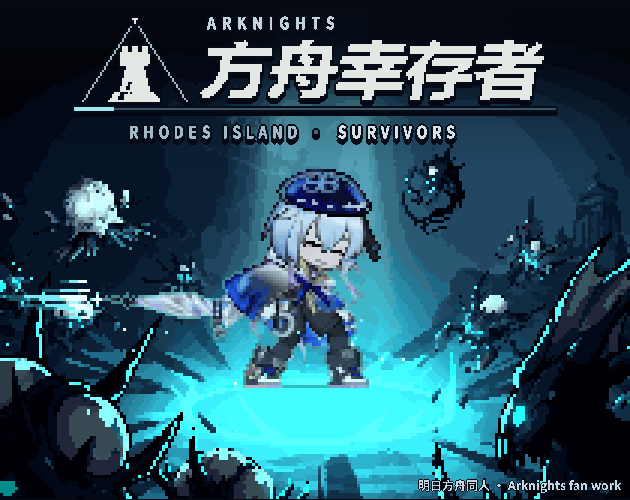
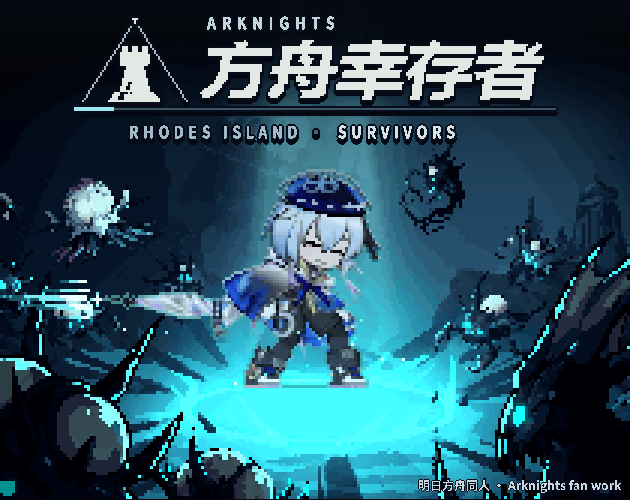
封面 H_t1_relit0：光柱不再割裂（背景收 112 色、顶部压暗拉长）；头部去贴图感（选择性描边、顶光、光包边）；加 itch 横幅 960×400（relit0 外扩 21:9，标题左、水月右）

diff --git a/art/promo/itch/cover_g/build_cover_h.py b/art/promo/itch/cover_g/build_cover_h.py
@@ -24,7 +24,10 @@ FRAMES = {"a": "mizuki_runtime_attack@2x.png", "s": "mizuki_runtime_skill_attack
           "n": "op_mizuki_entry@2x.png"}
 # 名字：(成品尺寸, 像素格, logo/标注倍数, logo 顶边)
 SIZES = {"itch_cover": ((630, 500), 3, 1, 16), "toy_poster": ((1200, 900), 5, 2, 14)}
-SHIFT = {"itch_cover": 12, "toy_poster": 10}   # 整个画面下移的格数（给标题让位，水月头顶不碰副行）
+SHIFT = {"itch_cover": 12, "toy_poster": 10, "itch_banner": 0}
+SIZES["itch_banner"] = ((960, 400), 2, 1, 0)
+# 横幅（11-07）：背景用 relit0 左右外扩到 21:9 的生图；光圈 / 水月在右侧，标题在左侧暗区
+BANNER = {"bg": None, "ring_x": 0.68, "floor_y": 0.86, "logo_xy": (34, 72)}   # 整个画面下移的格数（给标题让位，水月头顶不碰副行）
 FLOOR = (0.47, 0.71)   # 青光空地中心（相对整张生图）
 CYAN = np.array([120, 235, 245], np.uint8)
 
@@ -49,9 +52,12 @@ def bg_pixels(W, H, cell, over=OVER):
     ca = np.clip(0.3 + (ca - 0.3) * 1.25, 0, 1)
     c = Image.fromarray((ca * 255).astype(np.uint8))
     big = c.resize((gw * 4, gh * 4), Image.LANCZOS)
-    q = big.quantize(colors=K.COLORS, method=Image.Quantize.MAXCOVERAGE, dither=Image.Dither.NONE, kmeans=4)
-    pal = np.array(q.getpalette()[:K.COLORS * 3], np.uint8).reshape(-1, 3)
+    q = big.quantize(colors=BG_COLORS, method=Image.Quantize.MAXCOVERAGE, dither=Image.Dither.NONE, kmeans=4)
+    pal = np.array(q.getpalette()[:BG_COLORS * 3], np.uint8).reshape(-1, 3)
     return pal[K.mode_down(np.asarray(q), 4)]
+
+
+BG_COLORS = 112   # 11-07 用户「头上面的光线有点割裂」：48 色把柔和光柱切成硬边竖色带，多收些色让台阶变细
 
 
 def ring_center(g):
@@ -68,17 +74,29 @@ def ring_center(g):
     return int(round(cx)), int(round(cy)), m
 
 
-def crop_on_ring(big, gw, gh, floor_y):
-    """把带余量的格子图裁到 gw×gh：光圈中心落在水平正中、竖直 floor_y 处"""
+def crop_on_ring(big, gw, gh, floor_y, ring_x=0.5):
+    """把带余量的格子图裁到 gw×gh：光圈中心落在水平 ring_x、竖直 floor_y 处"""
     cx, cy, m = ring_center(big)
     Hb, Wb = big.shape[:2]
-    x0 = int(np.clip(cx - gw // 2, 0, Wb - gw))
+    x0 = int(np.clip(cx - int(gw * ring_x), 0, Wb - gw))
     y0 = int(np.clip(cy - int(gh * floor_y), 0, Hb - gh))
     return big[y0:y0 + gh, x0:x0 + gw], m[y0:y0 + gh, x0:x0 + gw], (cx - x0, cy - y0)
 
 
+def bg_pixels_path(path, W, H, cell, over):
+    global BG
+    old = BG
+    BG = path
+    try:
+        return bg_pixels(W, H, cell, over)
+    finally:
+        BG = old
+
+
 def shift_down(grid, n):
     """整幅下移 n 格：顶上补最上一行的颜色（本来就是暗渐变区），底部裁掉"""
+    if n <= 0:
+        return grid
     top = np.repeat(grid[:1], n, axis=0)
     return np.concatenate([top, grid[:-n]], 0)
 
@@ -108,6 +126,27 @@ def compose_grid(grid, spr, ringmask, center, n_shift=0):
     lower = (np.arange(sh)[:, None] > sh * 0.45)
     rim = edge & lower
     rgb[rim] = rgb[rim] * 0.45 + np.array([120, 235, 245]) * 0.55
+    # 11-07 用户「头像是贴上去的，和背景不在一个图层」：
+    # ① 选择性描边：外圈近黑描边换成「背后背景色 + 深青」，不再一圈黑线；
+    # ② 顶光：光柱从头顶来，朝上的边缘（上邻透明）在上半身加淡青白受光；
+    # ③ 光包边：边缘一格按背后亮度混入背景光（背后越亮混得越多）。
+    gh_, gw_ = grid.shape[:2]
+    bx0, by0 = fx - hx, fy - sh + 1
+    behind = np.zeros((sh, sw, 3), np.float32)
+    ys0, xs0 = max(0, by0), max(0, bx0)
+    ys1, xs1 = min(gh_, by0 + sh), min(gw_, bx0 + sw)
+    behind[ys0 - by0:ys1 - by0, xs0 - bx0:xs1 - bx0] = grid[ys0:ys1, xs0:xs1]
+    blum = (behind * [0.299, 0.587, 0.114]).sum(-1)
+    lum = (rgb * [0.299, 0.587, 0.114]).sum(-1)
+    dark_edge = edge & (lum < 70)
+    rgb[dark_edge] = behind[dark_edge] * 0.5 + np.array([18, 52, 66]) * 0.5
+    up_open = m & ~p[:-2, 1:-1]
+    upper = (np.arange(sh)[:, None] < sh * 0.55)
+    toplit = up_open & upper
+    rgb[toplit] = rgb[toplit] * 0.5 + np.array([205, 245, 250]) * 0.5
+    wrap = edge & ~dark_edge & ~toplit
+    k = np.clip((blum - 60) / 140, 0, 0.45)[..., None]
+    rgb = np.where(wrap[..., None], rgb * (1 - k) + behind * k, rgb)
     # 脚下暗影（浅、窄）
     gy, gx = np.mgrid[0:gh, 0:gw]
     shadow = ((gx - fx) / (sw * 0.2)) ** 2 + ((gy - fy) / 1.4) ** 2 < 1
@@ -165,14 +204,24 @@ def thrust_lines(g, m, x0, y0):
 def build(key, kind):
     (W, H), cell, up, logo_y = SIZES[kind]
     gw, gh = W // cell, H // cell
-    big = bg_pixels(W, H, cell)
-    grid, rmask, center = crop_on_ring(big, gw, gh, FLOOR[1])
+    if kind == "itch_banner":
+        big = bg_pixels_path(BANNER["bg"], W, H, cell, 1.06)
+        grid, rmask, center = crop_on_ring(big, gw, gh, BANNER["floor_y"], BANNER["ring_x"])
+    else:
+        big = bg_pixels(W, H, cell)
+        grid, rmask, center = crop_on_ring(big, gw, gh, FLOOR[1])
     n = SHIFT[kind]
     grid, rmask = shift_down(grid, n), shift_down(rmask, n)
     grid = compose_grid(grid, sprite(key), rmask, center, n)
     # 顶部平滑压暗到统一深色（盖掉生图黑带补过渡留下的台阶，也给标题干净底）
-    t = np.clip(1 - np.arange(gh) / (gh * 0.34), 0, 1)[:, None, None] ** 1.3 * 0.9
+    t = np.clip(1 - np.arange(gh) / (gh * 0.48), 0, 1)[:, None, None] ** 1.8 * 0.92   # 拉长放缓：光柱往上慢慢淡出，不被截断
     grid = (grid * (1 - t) + np.array([6, 10, 16]) * t).astype(np.uint8)
+    if kind == "itch_banner":
+        # 底边压暗（外扩生图左下有一截黑边）+ 左侧压暗（标题区）
+        tb = np.clip((np.arange(gh) - gh * 0.72) / (gh * 0.28), 0, 1)[:, None, None] ** 1.5 * 0.85
+        tl = np.clip(1 - np.arange(gw) / (gw * 0.45), 0, 1)[None, :, None] ** 1.4 * 0.6
+        t2 = np.maximum(tb, tl)
+        grid = (grid * (1 - t2) + np.array([6, 10, 16]) * t2).astype(np.uint8)
     img = Image.fromarray(grid).resize((grid.shape[1] * cell, grid.shape[0] * cell), Image.NEAREST)
     canvas = Image.new("RGB", (W, H), (6, 10, 16))
     canvas.paste(img, ((W - img.width) // 2, (H - img.height) // 2))
@@ -183,9 +232,12 @@ def build(key, kind):
         cov = np.kron(cov, np.ones((up, up), bool))
         padt *= up
     hb, wb = cov.shape
-    x0 = (W - 482 * up) // 2
-    x0 -= x0 % 2
-    y0 = max(logo_y * up - padt, 0)
+    if kind == "itch_banner":
+        x0, y0 = BANNER["logo_xy"][0], BANNER["logo_xy"][1] - padt
+    else:
+        x0 = (W - 482 * up) // 2
+        x0 -= x0 % 2
+        y0 = max(logo_y * up - padt, 0)
     reg = bg[y0:y0 + hb, x0:x0 + wb]
     cc = cov[:reg.shape[0], :reg.shape[1]]
     reg[cc] = rgb[:reg.shape[0], :reg.shape[1]][cc]
@@ -198,6 +250,7 @@ def main():
     ap.add_argument("--sheet")
     ap.add_argument("--bg", default="", help="背景生图路径（缺省 cover1107_bgopen；11-07 重打光版在 cover1107_relit）")
     ap.add_argument("--suffix", default="")
+    ap.add_argument("--banner_bg", default="", help="横幅背景生图（21:9 外扩）")
     a = ap.parse_args()
     global BG
     if a.bg:
@@ -206,6 +259,10 @@ def main():
     for key in a.frames.split(","):
         name = "H_" + key.replace(":", "") + a.suffix
         it, ty = build(key, "itch_cover"), build(key, "toy_poster")
+        if a.banner_bg:
+            BANNER["bg"] = a.banner_bg
+            bn = build(key, "itch_banner")
+            bn.save(HERE / f"cover_{name}_itch_banner_960x400.png", optimize=True)
         it.save(HERE / f"cover_{name}_itch_cover_630x500.png", optimize=True)
         ty.save(HERE / f"cover_{name}_toy_poster_1200x900.png", optimize=True)
         outs.append((name, it, ty))
